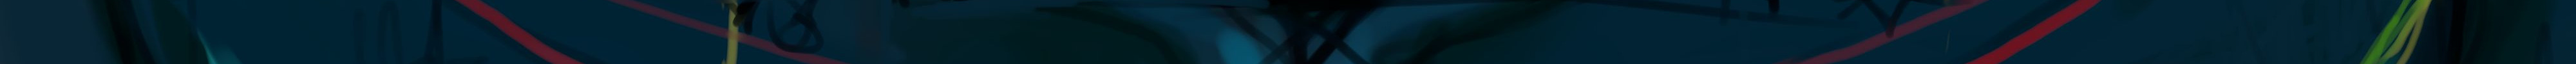
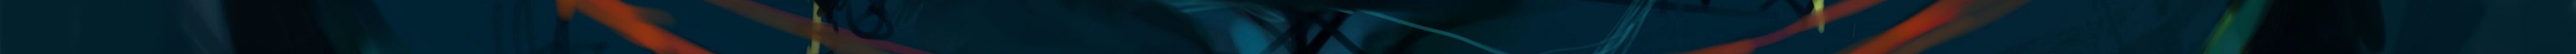
adding more links and styles

diff --git a/src/pages/About/AboutPage.js b/src/pages/About/AboutPage.js
@@ -45,7 +45,7 @@ function NumberMissList(props) {
   );
   return (
     <div className="focus-list">
-      <h2 className="h1" data-aos="fade-left" data-aos-delay="200">Mission Statement</h2>
+      <h2 className="h1" data-aos="fade-left" data-aos-delay="200">Seeing and Seeking</h2>
       {listItems}
     </div>
   );
@@ -55,6 +55,29 @@ const numbersMiss = [
   { id: 1, content: 'I am not focusing just on human.' }, 
   { id: 2, content:'Sense' }
 ];
+
+function NumberPersonalList(props) {
+  const numbersPersonal = props.numbersPersonal;
+  let aosDelay = 50;
+  const listItems = numbersPersonal.map((number) =>
+    // Correct! Key should be specified inside the array.
+    <div key={number.content.toString()} data-aos="fade-left" data-aos-delay={aosDelay + number.id* 50}>
+    {number.content}
+  </div>
+  );
+  return (
+    <div className="focus-list">
+      <h2 className="h1" data-aos="fade-left" data-aos-delay="200">Personal Skills</h2>
+      {listItems}
+    </div>
+  );
+}
+
+const numbersPersonal = [
+  { id: 1, content: 'I am not focusing just on human.' }, 
+  { id: 2, content:'Sense' }
+];
+
 
 const numbersDesign = [
   { id: 1, content: 'Concept and Ideation' },
@@ -88,7 +111,7 @@ function NumberDesign(props) {
 
 
 const numbersTech = [
-  { id: 1, content: 'JS, Advanced CSS, SASS, PHP, JSON, C#, Processing, SVG, WebGL, Three.js, D3, JQuery, Various Frameworks.' },
+  { id: 1, content: 'JS, Advanced CSS, SASS, PHP, Python, JSON, C#, Processing, SVG, WebGL, Three.js, D3, JQuery, React, Angular, Various Frameworks.' },
   { id: 2, content: 'Prototyping and Graphics: Proto.io, InVision, Justinmind, Balsamiq, Sketch, Axure, Adobes, Gimp, Inkscape, Krita.' },
   { id: 3, content: 'Arduino, basic understanding of circuit.' }
 ];
@@ -116,17 +139,29 @@ function NumberTech(props) {
 const AboutPage = () => (
   <Fragment>
     <div className="about-box">
-    <div className="sources-list">
-        <a className="bold" data-aos="fade-left" data-aos-delay="550">CV</a>
-        <a className="bold" data-aos="fade-left" data-aos-delay="600">Codepen</a>
-        <a className="bold" data-aos="fade-left" data-aos-delay="650">Linkedin</a>
-        <a className="bold" data-aos="fade-left" data-aos-delay="700">Github</a>
+      <div className="sources-list">
+        <a href="../resume.pdf" target="_blank"  className="bold" data-aos="fade-left" data-aos-delay="550">CV</a>
+        <a href="https://codepen.io/ophiophagus_hannah" target="_blank"  className="bold" data-aos="fade-left" data-aos-delay="600">Codepen</a>
+        <a href="https://www.linkedin.com/in/hannabahdanava/" target="_blank" className="bold" data-aos="fade-left" data-aos-delay="650">Linkedin</a>
+        <a href="https://github.com/OphiophagusHannah" target="_blank" className="bold" data-aos="fade-left" data-aos-delay="700">Github</a>
       </div>
       <NumberMissList numbersMiss={numbersMiss} />
       <NumberList numbers={numbers} />
       <NumberDesign numbersDesign={numbersDesign} />
       <NumberTech numbersTech={numbersTech} />
-
+      <NumberPersonalList numbersPersonal={numbersPersonal} />
+      <div>
+        <h2 className="h1" data-aos="fade-left" data-aos-delay="200">Story</h2>
+        <p data-aos="fade-left" data-aos-delay="200">I was.</p>
+      </div>
+      <div>
+        <h2 className="h1" data-aos="fade-left" data-aos-delay="200">Present</h2>
+        <p data-aos="fade-left" data-aos-delay="200">Is. Now.</p>
+      </div>
+      <div>
+        <h2 className="h1" data-aos="fade-left" data-aos-delay="200">Future</h2>
+        <p data-aos="fade-left" data-aos-delay="200">And Persuing</p>
+      </div>
 
     </div>
     <NavLink className="jump-next next-blog" to="/blog">

diff --git a/src/components/LocalArts/drawing_components/balance/scss/balance-image.css b/src/components/LocalArts/drawing_components/balance/scss/balance-image.css
@@ -5,7 +5,6 @@ body {
 .balance-wrapper {
   display: -ms-grid;
   display: grid;
-  height: 90vh;
   -ms-grid-rows: (1fr)[25];
       grid-template-rows: repeat(25, 1fr);
   -ms-grid-columns: 1fr;
@@ -289,26 +288,26 @@ body {
   opacity: .8;
   -webkit-transform: scaleX(-1);
           transform: scaleX(-1);
-  -webkit-filter: saturate(9) brightness(2);
-          filter: saturate(9) brightness(2);
+  -webkit-filter: saturate(9) brightness(2) hue-rotate(-120deg);
+          filter: saturate(9) brightness(2) hue-rotate(-120deg);
   -ms-filter: "FlipH";
   -webkit-transition: .5s ease;
   transition: .5s ease;
 }
 
 .balance-wrapper .box:hover .img-stable {
-  -webkit-filter: saturate(9) brightness(2) saturate(3);
-          filter: saturate(9) brightness(2) saturate(3);
-  -webkit-transition: .5s ease;
-  transition: .5s ease;
+  -webkit-filter: saturate(9) brightness(2) saturate(3) hue-rotate(-150deg);
+          filter: saturate(9) brightness(2) saturate(3) hue-rotate(-150deg);
+  -webkit-transition: 3s ease;
+  transition: 3s ease;
 }
 
 .balance-wrapper .box:hover .shade {
   width: 100%;
   height: 90%;
   opacity: .6;
-  -webkit-filter: hue-rotate(-20deg) saturate(8);
-          filter: hue-rotate(-20deg) saturate(8);
+  -webkit-filter: hue-rotate(-70deg) saturate(8);
+          filter: hue-rotate(-70deg) saturate(8);
   -webkit-transform: translate3d(12px, -22px, -35px);
           transform: translate3d(12px, -22px, -35px);
   -webkit-transition: .7s ease;

diff --git a/src/components/LocalArts/drawing_components/balance/scss/balance-image.scss b/src/components/LocalArts/drawing_components/balance/scss/balance-image.scss
@@ -4,8 +4,10 @@ body {
 
 .balance-wrapper {
     display: grid;
-    height: 90vh;
+    // height: 90vh;
     //width: 80%;
+    // height: auto;
+    // width: auto;
 
     grid-template-rows: repeat(25, 1fr);
     grid-template-columns: 1fr ;
@@ -172,14 +174,14 @@ body {
       height: 100%;
       opacity: .8;
       transform: scaleX(-1);
-      filter: saturate(9) brightness(2);
+      filter: saturate(9) brightness(2) hue-rotate(-120deg);
       -ms-filter: "FlipH";
       transition: .5s ease;
   }
 
   .box:hover .img-stable {
-    filter: saturate(9) brightness(2) saturate(3);
-    transition: .5s ease;
+    filter: saturate(9) brightness(2) saturate(3) hue-rotate(-150deg);
+    transition: 3s ease;
   }
 
   .box:hover .shade {
@@ -187,7 +189,7 @@ body {
     width: 100%;
     height: 90%;
     opacity: .6;
-    filter: hue-rotate(-20deg) saturate(8);
+    filter: hue-rotate(-70deg) saturate(8);
     transform: translate3d( 12px, -22px, -35px);
     transition: .7s ease;
   }

diff --git a/src/components/LocalProjects/GetLocalProjects.js b/src/components/LocalProjects/GetLocalProjects.js
@@ -15,6 +15,7 @@ class GetLocalProjects extends Component {
 
   fetchData = (post) => {
     this.setState({
+      currentLink : post.link,
       currentBody: post.image, 
       currentContent: post.content,
       currentTitle : post.title,
@@ -35,7 +36,7 @@ class GetLocalProjects extends Component {
       currentRole : post.role,
       currentSkills: post.skills,
       currentDeliverable : post.poc_type,
-      currentLink : post.link,
+      
     })
   };
 

diff --git a/src/components/LocalArts/GetLocalArts.js b/src/components/LocalArts/GetLocalArts.js
@@ -22,7 +22,7 @@ class GetLocalArts extends Component {
             <Tab data-aos="fade-left" data-aos-delay="200">interferance</Tab>
             <Tab data-aos="fade-left" data-aos-delay="200">balance</Tab>
           </TabList>
-          <div class="tab-panel">
+          <div className="tab-panel">
             <TabPanel>
               <h1>
                 <span data-aos="fade-left" data-aos-delay="200">Explore⋅⋅</span>

diff --git a/src/components/Nav.js b/src/components/Nav.js
@@ -161,9 +161,9 @@ class Nav extends Component {
             <NavLink activeClassName="active" to="/drawings">
               more of mine
             </NavLink>
-            <NavLink activeClassName="active" to="/contact">
+            {/* <NavLink activeClassName="active" to="/contact">
               speak to me
-            </NavLink>
+            </NavLink> */}
           </ul>
         </nav>
       </Navigation>

diff --git a/src/scss/app.scss b/src/scss/app.scss
@@ -145,7 +145,8 @@ $breakpoints: (
 }
 
 .sources-list {
-  margin-top: 2rem;
+  margin-top: 4rem;
+  margin-bottom: 2rem;
   display: flex;
 }
 
@@ -176,7 +177,7 @@ $breakpoints: (
 }
 
 .project-title-home {
-  padding-left: 5rem;
+  padding-left: 3rem;
   font-size: 16pt;
   color: grey;
   font-weight: 700;
@@ -189,7 +190,6 @@ $breakpoints: (
 
   @include respond-to('small') {
     font-size: 48pt;
-    
   }
 }
 

diff --git a/src/scss/app.css b/src/scss/app.css
@@ -135,7 +135,8 @@ h1, h2, h3, h4 {
 }
 
 .sources-list {
-  margin-top: 2rem;
+  margin-top: 4rem;
+  margin-bottom: 2rem;
   display: -webkit-box;
   display: -ms-flexbox;
   display: flex;
@@ -167,7 +168,7 @@ h1, h2, h3, h4 {
 }
 
 .project-title-home {
-  padding-left: 5rem;
+  padding-left: 3rem;
   font-size: 16pt;
   color: grey;
   font-weight: 700;
